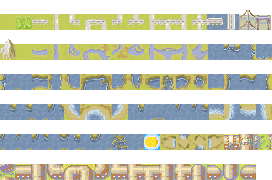
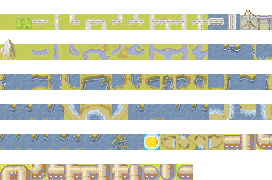
Separate colored cities from neutral cities. Move the Pipe Seam from terrains.xml to cities.xml.

diff --git a/v2/src/com/customwars/client/io/img/AnimLib.java b/v2/src/com/customwars/client/io/img/AnimLib.java
@@ -16,7 +16,6 @@ import java.util.Map;
 
 /**
  * Contains all the Animations, keyed by upper case name
- * Unit Animations are stored by row id
  *
  * @author stefan
  */
@@ -26,8 +25,7 @@ public class AnimLib {
   public static final String ANIM_UP = "UP";
   public static final String ANIM_DOWN = "DOWN";
   public static final String ANIM_INACTIVE = "INACTIVE";
-  public static final String ANIM_FOGGED = "FOGGED";
-  private static final int NO_DURATION = 999;
+  private static final int NO_DURATION = 1;
   private final Map<String, Animation> animations;
 
   public AnimLib() {
@@ -43,16 +41,15 @@ public class AnimLib {
   }
 
   public Animation getAnim(String animName) {
-    String key = animName.toUpperCase();
-    if (!isAnimLoaded(key)) {
+    if (!isAnimLoaded(animName)) {
       throw new IllegalArgumentException(
-        "Animation cache does not contain " + key + " " + animations.keySet());
+        "Animation cache does not contain " + animName + " " + animations.keySet());
     }
-    return animations.get(key);
+    return animations.get(animName);
   }
 
   boolean isAnimLoaded(String animName) {
-    return animations.containsKey(animName.toUpperCase());
+    return animations.containsKey(animName);
   }
 
   public Collection<Animation> getAllAnimations() {
@@ -64,6 +61,11 @@ public class AnimLib {
   //----------------------------------------------------------------------------
 
   public void createCityAnimations(Color baseColor, Color color, ResourceManager resources) {
+    createArmyCityAnimations(baseColor, color, resources);
+    createNeutralCityAnimations(resources);
+  }
+
+  private void createArmyCityAnimations(Color baseColor, Color color, ResourceManager resources) {
     SpriteSheet citySpriteSheet = resources.getCitySpriteSheet(color);
     boolean cityAnimationsOn = App.getBoolean("display.city.animate");
 
@@ -76,6 +78,31 @@ public class AnimLib {
       Animation animActive = createAnim(citySpriteSheet, 0, totalFrames, row, duration);
       animActive.setLooping(cityAnimationsOn);
       addCityAnim(row, color, "", animActive);
+    }
+  }
+
+  /**
+   * Create neutral city animations
+   * The neutral city spritesheet image has 2 cols.
+   * the first column contains the active city img and
+   * the second column contains the inactive city img.
+   *
+   * For example a Missile silo would have a platform+rocket as active anim and
+   * just a platform w/o rocket as inactive anim.
+   */
+  private void createNeutralCityAnimations(ResourceManager resources) {
+    Color neutralColor = App.getColor("plugin.neutral_color");
+    int coloredCityCount = resources.getCitySpriteSheet(neutralColor).getVerticalCount();
+    SpriteSheet neutralCitySpriteSheet = resources.getNeutralCitySpriteSheet();
+
+    for (int row = 0; row < neutralCitySpriteSheet.getVerticalCount(); row++) {
+      Animation animActive = createAnim(neutralCitySpriteSheet, 0, 1, row, NO_DURATION);
+      animActive.setLooping(false);
+      addCityAnim(row + coloredCityCount, neutralColor, "", animActive);
+
+      Animation animInActive = createAnim(neutralCitySpriteSheet, 1, 2, row, NO_DURATION);
+      animInActive.setLooping(false);
+      addCityAnim(row + coloredCityCount, neutralColor, ANIM_INACTIVE, animInActive);
     }
   }
 
@@ -129,7 +156,7 @@ public class AnimLib {
     int animLeftFrameDurations = baseAnimLeft.getDurations()[0];
     int animRightFrameDurations = baseAnimRight.getDurations()[0];
     int animUpFrameDurations = baseAnimUp.getDurations()[0];
-    int animDownFrameDuractions = baseAnimDown.getDurations()[0];
+    int animDownFrameDurations = baseAnimDown.getDurations()[0];
 
     // For each row get LEFT, RIGHT, DOWN and UP Images and create Animations out of them.
     // THE ORDER IN WHICH IMAGES ARE READ IS IMPORTANT!
@@ -146,7 +173,7 @@ public class AnimLib {
       frame += animRightFrameCount;
       totalFrames += animRightFrameCount;
 
-      Animation animDown = createAnim(unitSpriteSheet, frame, totalFrames, row, animDownFrameDuractions);
+      Animation animDown = createAnim(unitSpriteSheet, frame, totalFrames, row, animDownFrameDurations);
       addUnitAnim(row, color, ANIM_DOWN, animDown);
       frame += animDownFrameCount;
       totalFrames += animDownFrameCount;
@@ -163,7 +190,7 @@ public class AnimLib {
     }
   }
 
-  private Animation createAnim(SpriteSheet sheet, int col, int cols, int row, int duration) {
+  private static Animation createAnim(SpriteSheet sheet, int col, int cols, int row, int duration) {
     return new Animation(sheet, col, row, cols - 1, row, true, duration, false);
   }
 
@@ -182,7 +209,7 @@ public class AnimLib {
     return getAnim(unitAnimName);
   }
 
-  private String createUnitAnimName(int rowID, Color color, String suffix) {
+  private static String createUnitAnimName(int rowID, Color color, String suffix) {
     String colorName = ColorUtil.toString(color);
     return "unit_" + rowID + "_" + colorName + "_" + suffix;
   }

diff --git a/v2/src/com/customwars/client/io/img/slick/CWImageLib.java b/v2/src/com/customwars/client/io/img/slick/CWImageLib.java
@@ -27,8 +27,20 @@ public class CWImageLib {
   }
 
   public Image getCityImage(City city, int colIndex, Color color) {
-    SpriteSheet citySheet = getCitySpriteSheet(color);
-    return citySheet.getSubImage(colIndex, city.getID());
+    SpriteSheet coloredCitySheet = getCitySpriteSheet(color);
+    int coloredCityCount = coloredCitySheet.getVerticalCount();
+
+    if (city.getID() < coloredCityCount) {
+      return coloredCitySheet.getSubImage(colIndex, city.getID());
+    } else {
+      SpriteSheet neutralCitySheet = getNeutralCitySpriteSheet();
+      int neutralCityRow = city.getID() - coloredCityCount;
+      return neutralCitySheet.getSubImage(colIndex, neutralCityRow);
+    }
+  }
+
+  public SpriteSheet getNeutralCitySpriteSheet() {
+    return getSlickSpriteSheet("neutral_cities");
   }
 
   public SpriteSheet getCitySpriteSheet(Color color) {
@@ -68,8 +80,13 @@ public class CWImageLib {
   /**
    * Crop a single unit image from a spritesheet that is looking in the given direction.
    * Supported directions(N,E,S,W) all other directions will throw an IllegalArgumentException
+   *
+   * @param unitSpriteSheet The spritesheet source to crop a Unit image out
+   * @param direction       The facing direction of the cropped unit
+   * @param row             The row in the spritesheet to re retrieve the unit image from
+   * @return 1 cropped unit image facing to direction on the given row
    */
-  private Image cropUnitImg(SpriteSheet unitSpriteSheet, Direction direction, int row) {
+  private static Image cropUnitImg(SpriteSheet unitSpriteSheet, Direction direction, int row) {
     Image unitImg;
 
     switch (direction) {

diff --git a/v2/src/com/customwars/client/ui/sprite/SpriteManager.java b/v2/src/com/customwars/client/ui/sprite/SpriteManager.java
@@ -16,7 +16,6 @@ import org.apache.log4j.Logger;
 import org.newdawn.slick.Animation;
 import org.newdawn.slick.Font;
 import org.newdawn.slick.Graphics;
-import org.newdawn.slick.Image;
 
 import java.awt.Color;
 import java.beans.PropertyChangeEvent;
@@ -276,37 +275,14 @@ public class SpriteManager implements PropertyChangeListener {
     return citySprite;
   }
 
-  /**
-   * Launch platforms are always neutral and don't animate
-   */
   private void recolorCitySprite(City city, CitySprite sprite, Color color) {
-    Animation animActive = getActiveCityAnim(city, color);
-    Animation animInActive = getInActiveCityAnim(city);
+    Animation animActive = resources.getCityAnim(city, color);
+    Animation animInActive = resources.getInActiveCityAnim(city, NEUTRAL_COLOR);
     Animation animFogged = getFoggedCityAnim(city, color);
     sprite.setAnimActive(animActive);
     sprite.setAnimInActive(animInActive);
     sprite.setAnimFogged(animFogged);
     sprite.updateAnim();
-  }
-
-  private Animation getActiveCityAnim(City city, Color color) {
-    if (city.canLaunchRocket()) {
-      Image lastImg = resources.getCityImage(city, 0, color);
-      Image[] images = new Image[]{lastImg};
-      return new Animation(images, 1);
-    } else {
-      return resources.getCityAnim(city, color);
-    }
-  }
-
-  private Animation getInActiveCityAnim(City city) {
-    if (city.canLaunchRocket()) {
-      Image lastImg = resources.getCityImage(city, 1, NEUTRAL_COLOR);
-      Image[] images = new Image[]{lastImg};
-      return new Animation(images, 1);
-    } else {
-      return null;
-    }
   }
 
   /**

diff --git a/v2/src/com/customwars/client/model/gameobject/City.java b/v2/src/com/customwars/client/model/gameobject/City.java
@@ -36,7 +36,7 @@ public class City extends Terrain implements PropertyChangeListener, TurnHandler
   private List<Integer> canBeLaunchedBy;// The ids that can launch a rocket (Empty list means it cannot launch rockets)
   private final int maxCapCount;
   private final int healRate;       // Healing/repairs this city can give to a Unit
-  private int funds;          // Money that this city produces every turn
+  private int funds;                // Money that this city produces every turn
 
   private Location location;  // The location this City is on
   private Player owner;       // Player owning this City
@@ -342,6 +342,14 @@ public class City extends Terrain implements PropertyChangeListener, TurnHandler
 
   public boolean isHQ() {
     return getName().equalsIgnoreCase("HQ");
+  }
+
+  public boolean isNeutral() {
+    return owner != null && owner.isNeutral();
+  }
+
+  public boolean isSpecialNeutralCity() {
+    return canBeCaptureBy.isEmpty();
   }
 
   @Override

diff --git a/v2/src/com/customwars/client/controller/CityMapEditorControl.java b/v2/src/com/customwars/client/controller/CityMapEditorControl.java
@@ -2,6 +2,7 @@ package com.customwars.client.controller;
 
 import com.customwars.client.model.game.Player;
 import com.customwars.client.model.gameobject.City;
+import com.customwars.client.model.gameobject.CityFactory;
 import com.customwars.client.model.gameobject.Terrain;
 import com.customwars.client.model.gameobject.TerrainFactory;
 import com.customwars.client.model.map.Map;
@@ -24,10 +25,15 @@ public class CityMapEditorControl implements MapEditorControl {
   }
 
   public void addToTile(Tile t, int cityID, Color color) {
-    Player mapPlayer = map.getPlayer(color);
     removePreviousCity(t);
+    City city = CityFactory.getCity(cityID);
 
-    City city = MapUtil.addCityToMap(map, t, cityID, mapPlayer);
+    if (city.isSpecialNeutralCity()) {
+      color = Color.GRAY;
+    }
+
+    Player mapPlayer = map.getPlayer(color);
+    MapUtil.addCityToMap(map, t, city, mapPlayer);
     terrainConnector.turnSurroundingTerrains(t, city);
   }
 

diff --git a/v2/src/com/customwars/client/io/ResourceManager.java b/v2/src/com/customwars/client/io/ResourceManager.java
@@ -150,6 +150,10 @@ public class ResourceManager {
     return cwImageLib.getCitySpriteSheet(color);
   }
 
+  public SpriteSheet getNeutralCitySpriteSheet() {
+    return cwImageLib.getNeutralCitySpriteSheet();
+  }
+
   public int getSingleCityImageHeight(Color color) {
     return cwImageLib.getSingleCityImageHeight(color);
   }
@@ -192,6 +196,10 @@ public class ResourceManager {
 
   public Animation getCityAnim(City city, Color color) {
     return cwAnimLib.getCityAnim(city, color);
+  }
+
+  public Animation getInActiveCityAnim(City city, Color color) {
+    return cwAnimLib.getInActiveCityAnim(city, color);
   }
 
   public Animation getUnitAnim(Unit unit, Color color, Direction direction) {

diff --git a/v2/src/com/customwars/client/io/loading/ModelLoader.java b/v2/src/com/customwars/client/io/loading/ModelLoader.java
@@ -103,6 +103,7 @@ public class ModelLoader implements CWResourceLoader {
     xStream.useAttributeFor(Terrain.class, "name");
     xStream.useAttributeFor(Terrain.class, "type");
     xStream.alias("armyBranch", ArmyBranch.class);
+    xStream.aliasField("connect", Terrain.class, "connectedDirections");
     InputStream cityStream = ResourceLoader.getResourceAsStream(modelResPath + XML_DATA_CITY_FILE);
     Collection<City> cities = (Collection<City>) XStreamUtil.readObject(xStream, cityStream);
     CityFactory.addCities(cities);

diff --git a/v2/src/com/customwars/client/io/img/CWAnimLib.java b/v2/src/com/customwars/client/io/img/CWAnimLib.java
@@ -23,6 +23,13 @@ public class CWAnimLib {
   }
 
   /**
+   * Get the inactive city animation for a special neutral city or null.
+   */
+  public Animation getInActiveCityAnim(City city, Color color) {
+    return city.isSpecialNeutralCity() ? animLib.getCityAnim(city.getID(), color, AnimLib.ANIM_INACTIVE) : null;
+  }
+
+  /**
    * Get a single unit animation that is looking in the given direction.
    * Supported directions(N,E,S,W) all other directions will throw an IllegalArgumentException
    */
